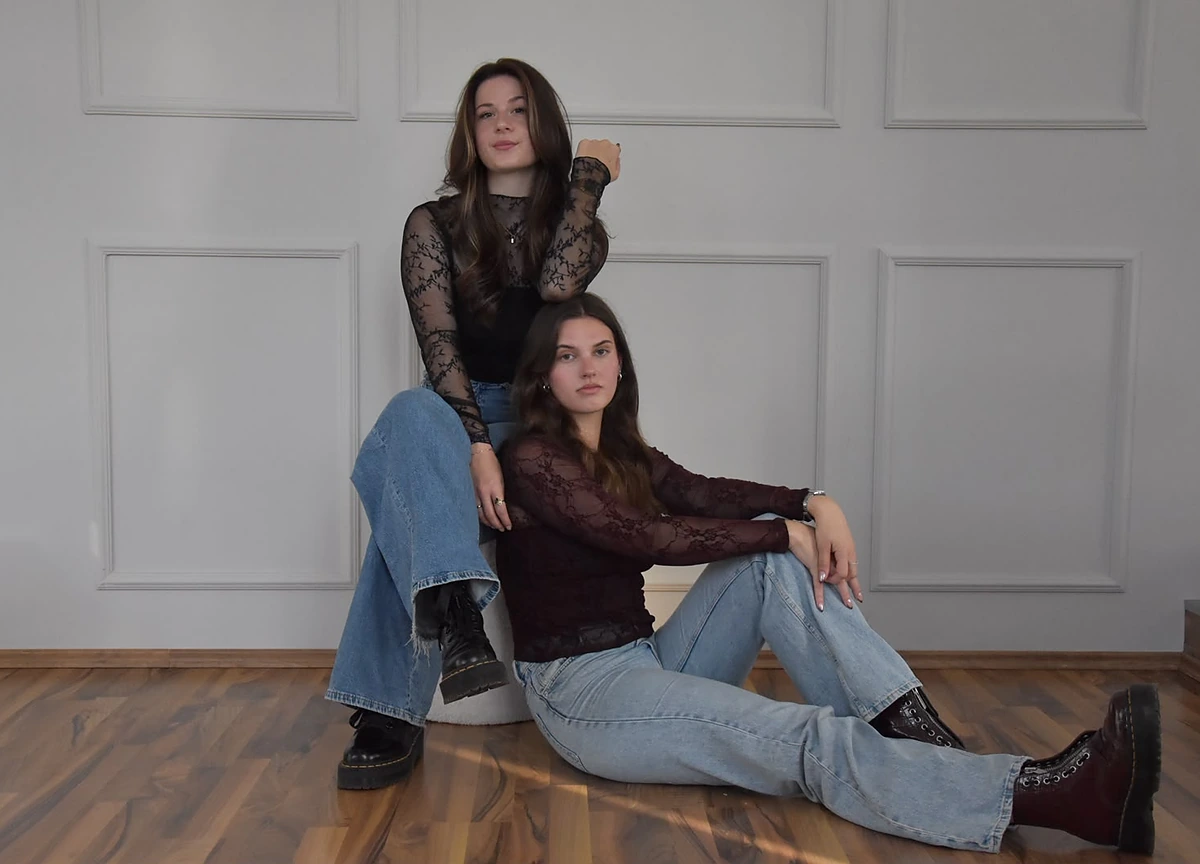
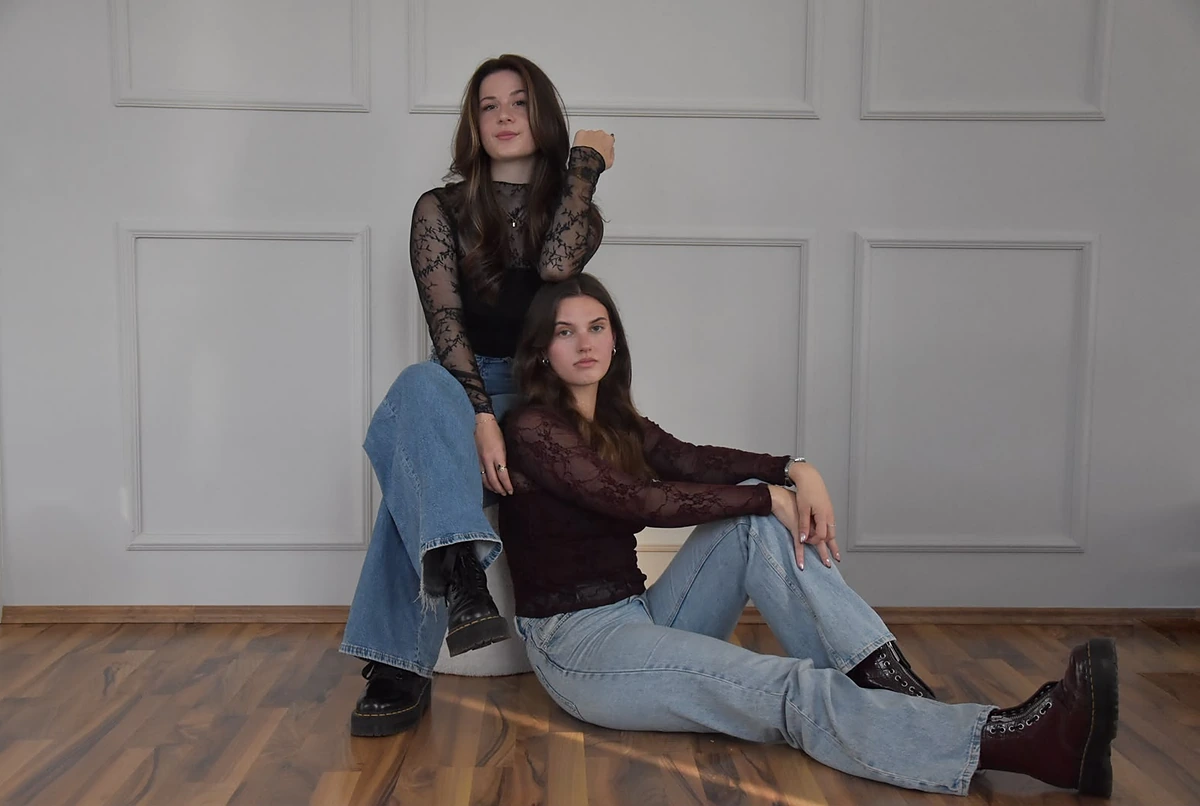
Hero Desktop: weniger Zoom, volle Bildbreite
- Desktop-Foto nutzt jetzt die volle Breite (1588px), Holzstufe rechts
  unten wegretuschiert
- Sichtbarer Ausschnitt Koepfe bis Stiefel statt Koepfe bis Knie
  (Box 128.4% statt 142%), ca. 8-10% weniger Zoom
- Mobile unveraendert
- style.css v=81

diff --git a/index.html b/index.html
@@ -78,7 +78,7 @@
     <link rel="preconnect" href="https://fonts.googleapis.com">
     <link rel="preconnect" href="https://fonts.gstatic.com" crossorigin>
     <link href="https://fonts.googleapis.com/css2?family=Poppins:wght@400;500;600;700;800&family=Inter:wght@300;400;500;600&display=swap" rel="stylesheet">
-    <link rel="stylesheet" href="style.css?v=80">
+    <link rel="stylesheet" href="style.css?v=81">
 </head>
 <body>
     <!-- Animated Background -->
@@ -139,10 +139,10 @@
             <source media="(max-width: 900px)" type="image/webp" width="1155" height="1066"
                     srcset="assets/hero-duo-mobile-770.webp 770w, assets/hero-duo-mobile-1155.webp 1155w"
                     sizes="calc(100vw - 32px)">
-            <source type="image/webp" width="1480" height="1066"
-                    srcset="assets/hero-duo-1200.webp 1200w, assets/hero-duo-1480.webp 1480w"
+            <source type="image/webp" width="1588" height="1066"
+                    srcset="assets/hero-duo-1200.webp 1200w, assets/hero-duo-1588.webp 1588w"
                     sizes="100vw">
-            <img src="assets/hero-duo-1480.jpg" alt="Leonie und Nica vor einer hellgrauen Kassettenwand" class="hero-bg-photo" width="1480" height="1066" fetchpriority="high">
+            <img src="assets/hero-duo-1588.jpg" alt="Leonie und Nica vor einer hellgrauen Kassettenwand" class="hero-bg-photo" width="1588" height="1066" fetchpriority="high">
         </picture>
 
         <div class="hero-left-bottom">

diff --git a/style.css b/style.css
@@ -575,13 +575,13 @@ a {
    Nur Desktop: Mobile (<=900px) bleibt davon unberührt.
    ======================================== */
 @media (min-width: 901px) {
-    /* Bildausschnitt wie in Canva: sichtbar ist Quellbild-Höhe 31–781px (Köpfe bis Knie).
-       Box = 1066/750 = 142% der Hero-Höhe, um 31/750 = 4% nach oben versetzt.
-       Auf sehr breiten Screens greift object-fit (oben verankert) → Köpfe bleiben drin. */
+    /* Bildausschnitt: sichtbar ist Quellbild-Höhe 31–861px (Köpfe bis Stiefel).
+       Box = 1066/830 = 128.4% der Hero-Höhe, um 31/830 = 3.7% nach oben versetzt.
+       Auf sehr breiten Screens greift object-fit (volle Bildbreite, oben verankert). */
     .hero-bg-photo {
-        top: -4%;
+        top: -3.7%;
         bottom: auto;
-        height: 142%;
+        height: 128.4%;
         object-position: 50% 0;
     }
 
